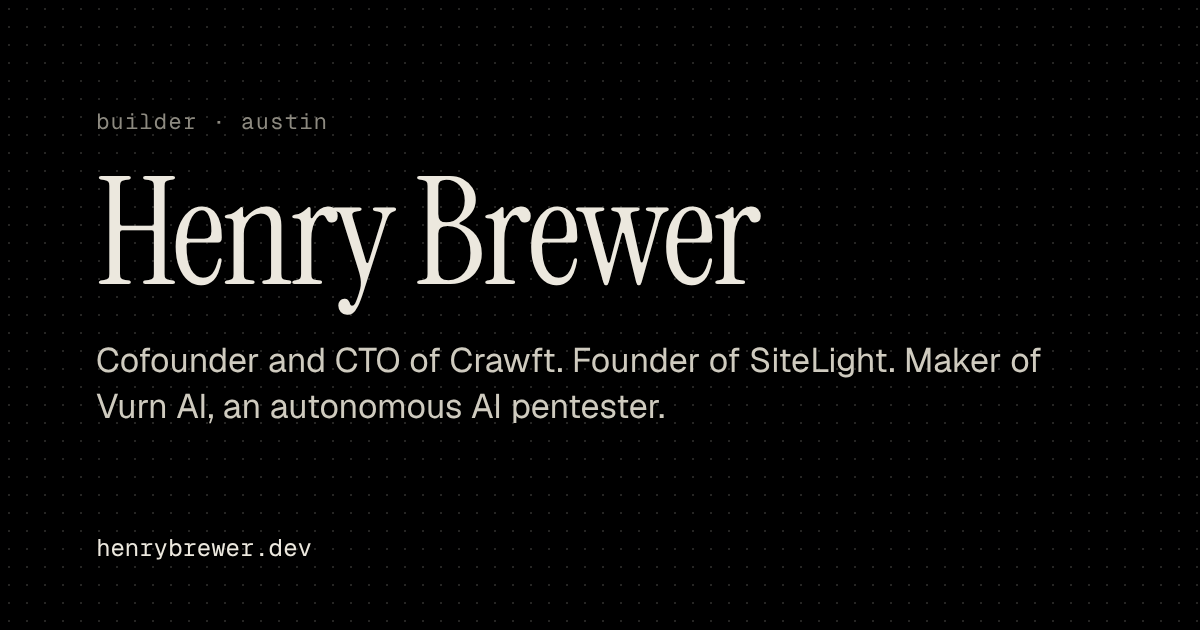
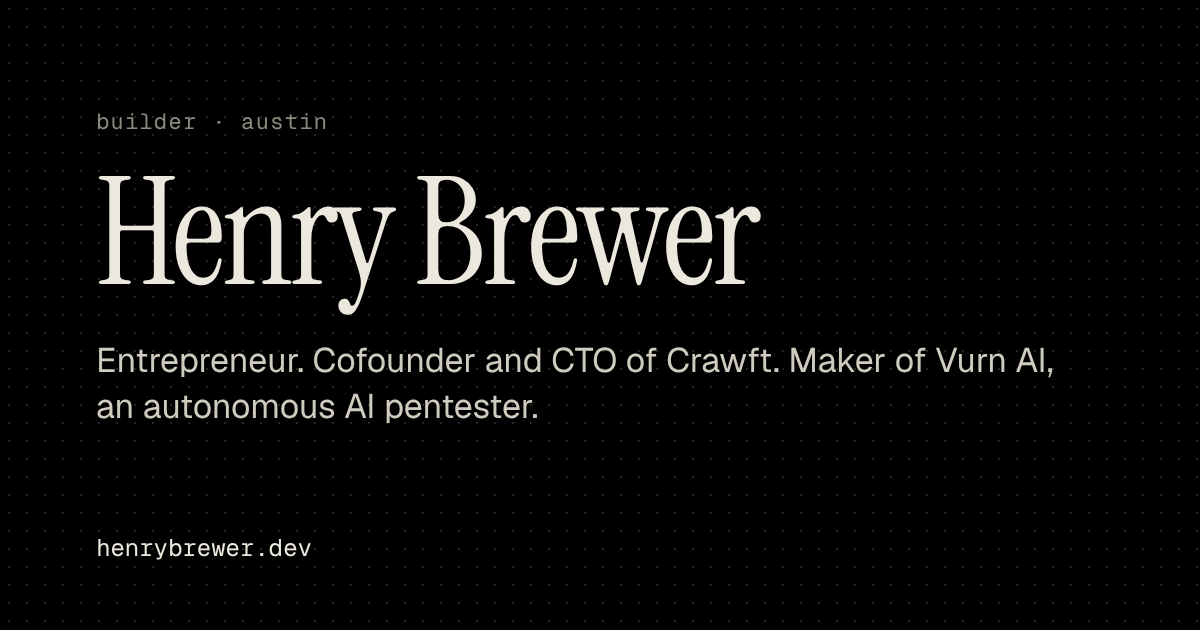
Search title and share image say entrepreneur instead of SiteLight
Claude-Session: https://claude.ai/code/session_01Y3Jd8WFEVyia5PZfLJW83y

Changed region(s): [[0.0617, 0.5429, 0.8942, 0.6032], [0.0617, 0.6333, 0.555, 0.6635]]

diff --git a/index.html b/index.html
@@ -3,15 +3,15 @@
   <head>
     <meta charset="utf-8" />
     <meta name="viewport" content="width=device-width, initial-scale=1, viewport-fit=cover" />
-    <title>Henry Brewer · Cofounder and CTO of Crawft, founder of SiteLight</title>
-    <meta name="description" content="Henry Brewer is a 14-year-old builder from Austin: cofounder and CTO of Crawft, founder of SiteLight, and maker of Vurn AI, an autonomous AI pentester. Ask about anything he's built." />
+    <title>Henry Brewer · Entrepreneur, cofounder and CTO of Crawft</title>
+    <meta name="description" content="Henry Brewer is a 14-year-old entrepreneur from Austin: cofounder and CTO of Crawft and maker of Vurn AI, an autonomous AI pentester. Ask about anything he's built." />
     <meta name="author" content="Henry Brewer" />
     <meta name="robots" content="index, follow, max-image-preview:large, max-snippet:-1" />
     <link rel="canonical" href="https://www.henrybrewer.dev/" />
     <meta name="theme-color" content="#000000" />
     <meta property="og:title" content="Henry Brewer" />
     <meta property="og:site_name" content="Henry Brewer" />
-    <meta property="og:description" content="Cofounder and CTO of Crawft, founder of SiteLight, maker of Vurn AI. Ask about anything I've built." />
+    <meta property="og:description" content="Entrepreneur. Cofounder and CTO of Crawft, maker of Vurn AI. Ask about anything I've built." />
     <meta property="og:type" content="profile" />
     <meta property="profile:first_name" content="Henry" />
     <meta property="profile:last_name" content="Brewer" />
@@ -20,10 +20,10 @@
     <meta property="og:image" content="https://www.henrybrewer.dev/assets/share-henry.png" />
     <meta property="og:image:width" content="1200" />
     <meta property="og:image:height" content="630" />
-    <meta property="og:image:alt" content="Henry Brewer, in bone-white type on black: cofounder and CTO of Crawft, founder of SiteLight" />
+    <meta property="og:image:alt" content="Henry Brewer, in bone-white type on black: entrepreneur, cofounder and CTO of Crawft" />
     <meta name="twitter:card" content="summary_large_image" />
     <meta name="twitter:title" content="Henry Brewer" />
-    <meta name="twitter:description" content="Cofounder and CTO of Crawft, founder of SiteLight, maker of Vurn AI. Ask about anything I've built." />
+    <meta name="twitter:description" content="Entrepreneur. Cofounder and CTO of Crawft, maker of Vurn AI. Ask about anything I've built." />
     <meta name="twitter:image" content="https://www.henrybrewer.dev/assets/share-henry.png" />
     <link rel="icon" href="/favicon.ico" sizes="48x48" />
     <link rel="icon" href="/assets/favicon-v2.svg" type="image/svg+xml" />
